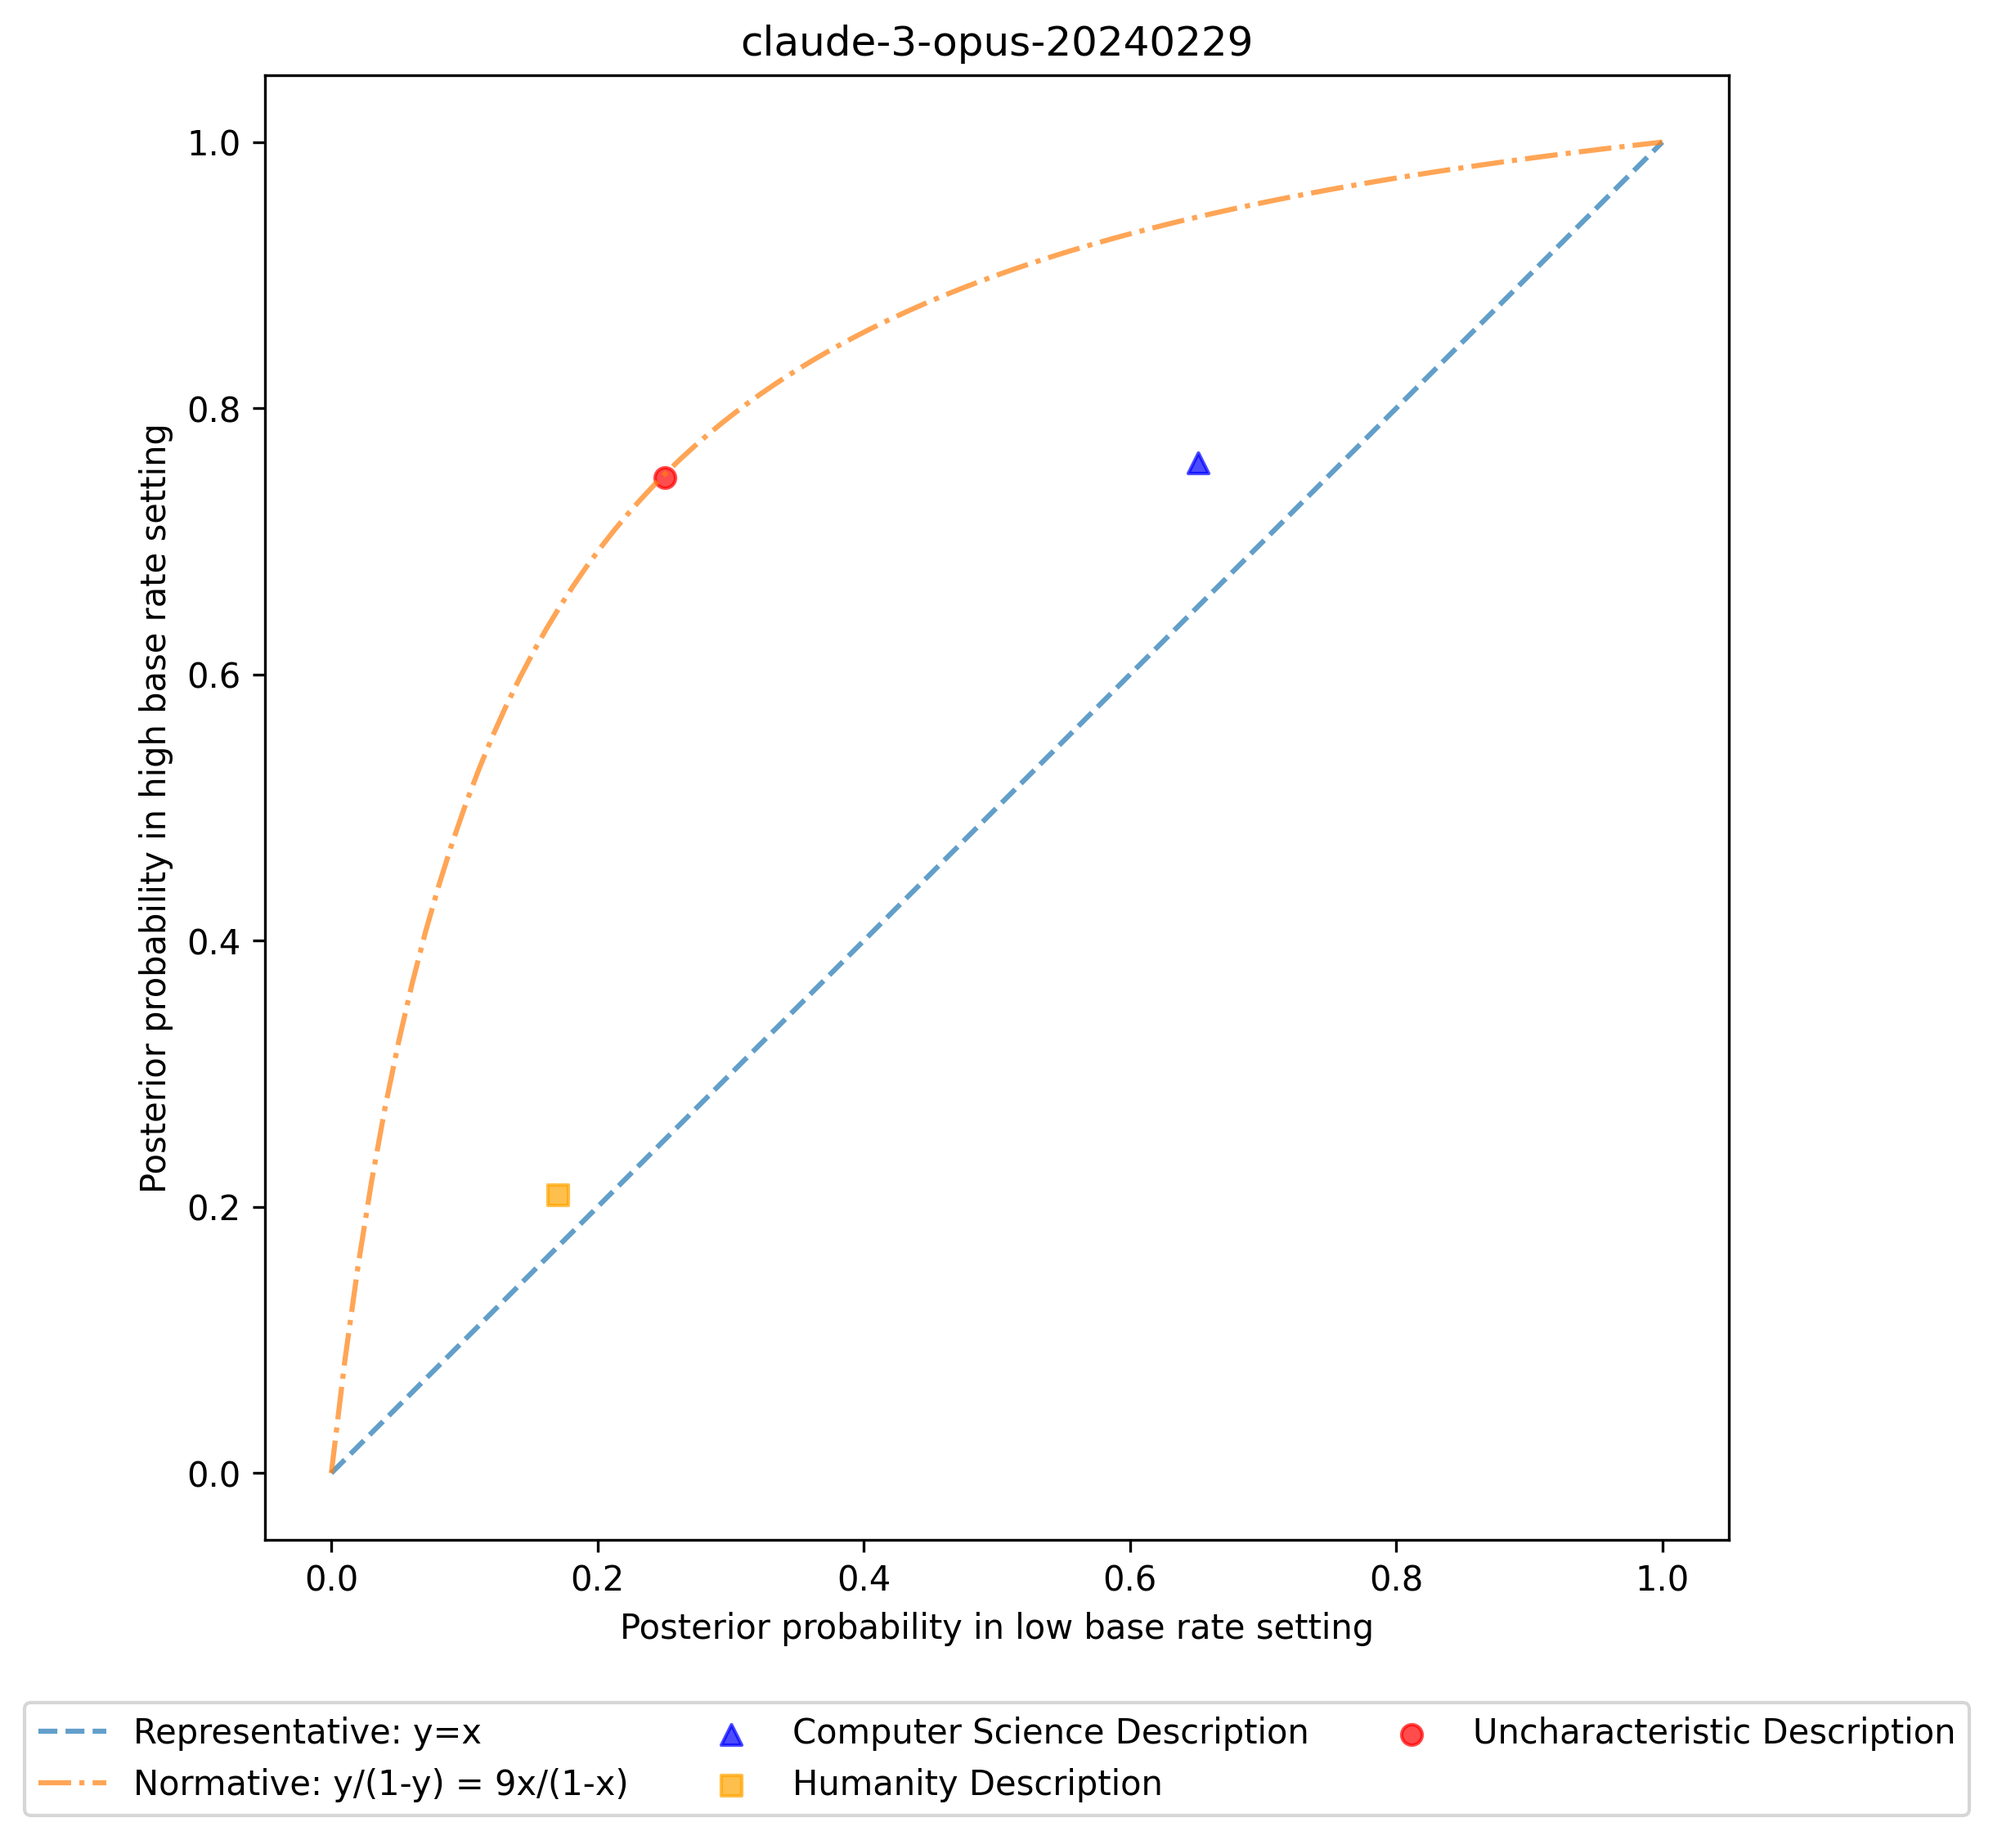
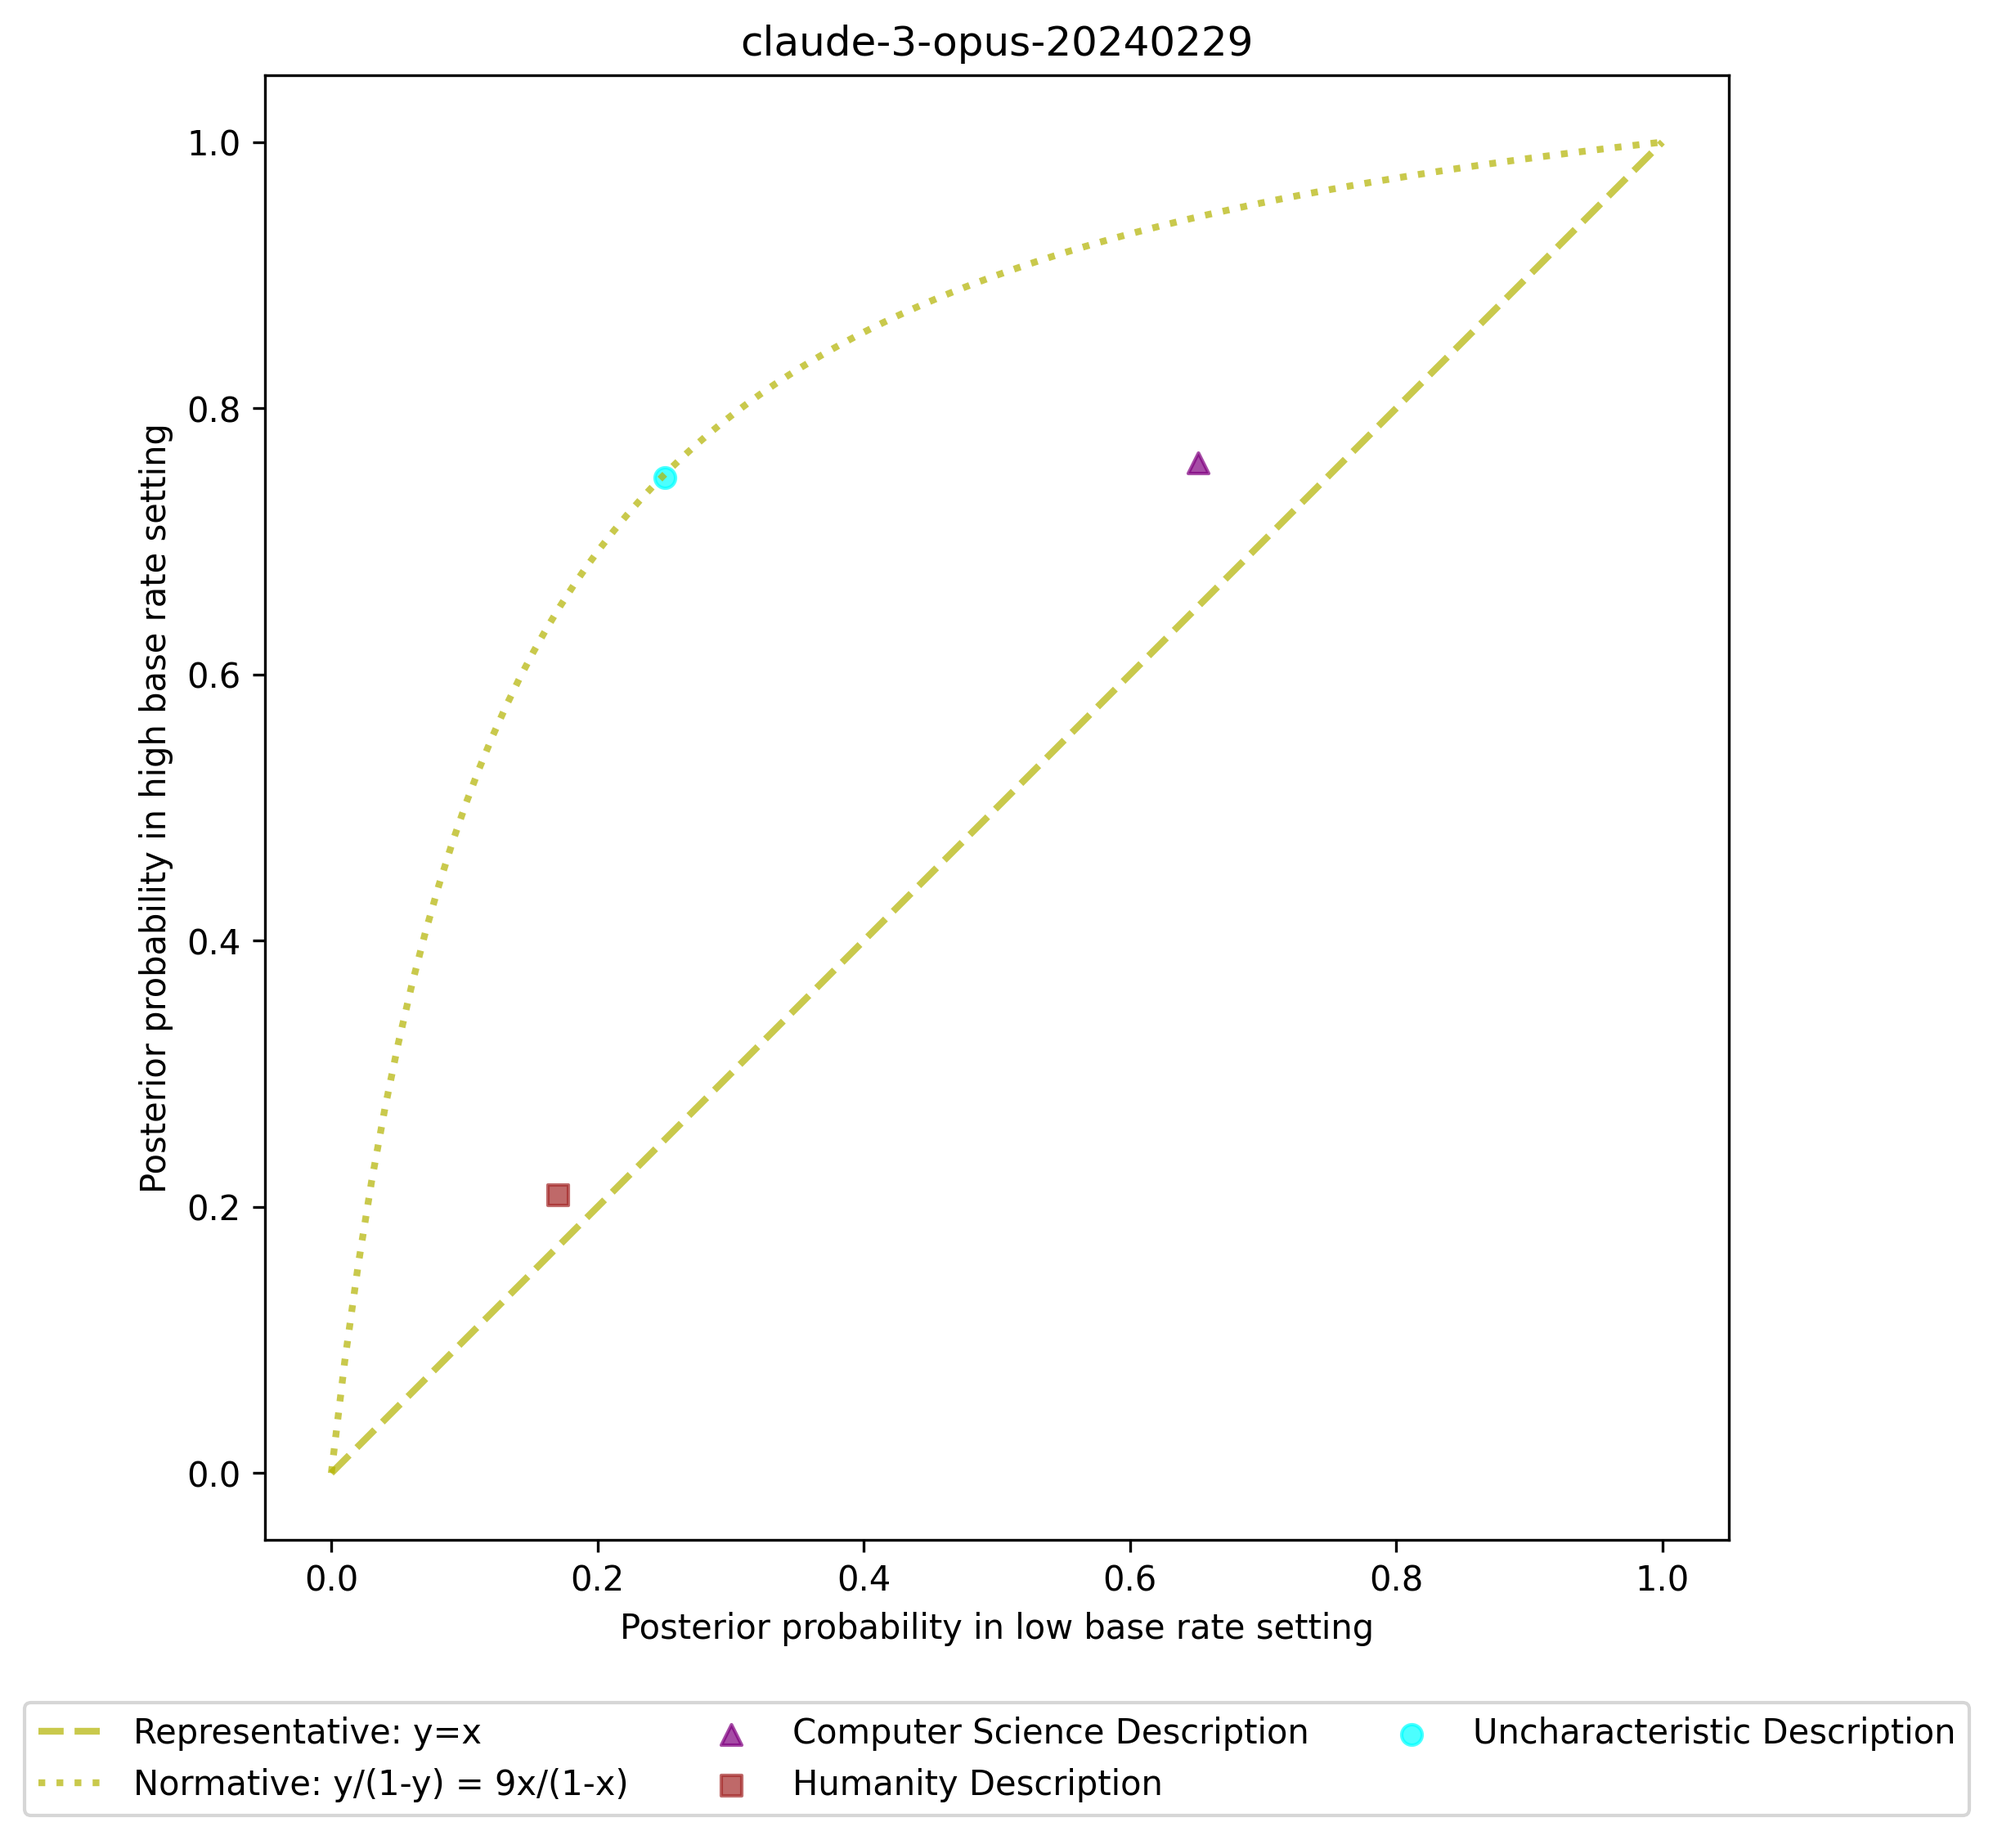
update plots for WISE2024 plot code modification to make the color more colorblind friendly.

diff --git a/2semi_structured_test/0original/scripts/5plot.py b/2semi_structured_test/0original/scripts/5plot.py
@@ -67,13 +67,13 @@ def main(prob_fp, list_schemes, output_dir):
     # Create and save the figure with just the lines and labels
     plt.figure(figsize=(8, 8))
 
-    # 45-degree line
+    # 45-degree line (Representative)
     x_vals = np.linspace(0, 1, 100)
-    plt.plot(x_vals, x_vals, '--', label='Representative: y=x', alpha=0.7)
+    plt.plot(x_vals, x_vals, '--', label='Representative: y=x', alpha=0.7, color="#008080", linewidth=2)
 
-    # Line for y/(1-y) = 9x/(1-x)
+    # Line for y/(1-y) = 9x/(1-x) (Normative)
     y_vals = (9 * x_vals) / (8 * x_vals + 1)
-    plt.plot(x_vals, y_vals, '-.', label='Normative: y/(1-y) = 9x/(1-x)', alpha=0.7)
+    plt.plot(x_vals, y_vals, ':', label='Normative: y/(1-y) = 9x/(1-x)', alpha=0.7, color="#008080", linewidth=2)
 
     # Label axes
     plt.xlabel("Posterior probability in low base rate setting")
@@ -81,7 +81,6 @@ def main(prob_fp, list_schemes, output_dir):
     plt.title("Baseline Plot with Normative Curve and Representative Line")
 
     # Legend
-    # plt.legend(loc='upper left', bbox_to_anchor=(1, 1))
     plt.legend(loc='lower center', bbox_to_anchor=(0.5, -0.2), ncol=2)
 
     # Save the baseline plot
@@ -89,23 +88,24 @@ def main(prob_fp, list_schemes, output_dir):
     plt.savefig(baseline_fp, bbox_inches='tight', dpi=300)
     plt.close()
 
-    # Continue with the main plotting for each model
+    # Define updated color scheme
     scheme_styles = {
-        'unchar': {'color': 'red', 'marker': 'o', 'label': 'Uncharacteristic Description'},
-        'cs': {'color': 'blue', 'marker': '^', 'label': 'Computer Science Description'},
-        'human': {'color': 'orange', 'marker': 's', 'label': 'Humanity Description'},
+        'unchar': {'color': '#00FFFF', 'marker': 'o', 'label': 'Uncharacteristic Description'},
+        'cs': {'color': '#800080', 'marker': '^', 'label': 'Computer Science Description'},
+        'human': {'color': '#A52A2A', 'marker': 's', 'label': 'Humanity Description'},
     }
 
+    # Continue with the main plotting for each model
     for model_name in df["model_name"].unique():
         df1 = df[df["model_name"] == model_name]
 
         plt.figure(figsize=(8, 8))
 
-        # 45-degree line
-        plt.plot(x_vals, x_vals, '--', label='Representative: y=x', alpha=0.7)
+        # 45-degree line (Representative)
+        plt.plot(x_vals, x_vals, '--', label='Representative: y=x', alpha=0.7, color="#b3b300", linewidth=2)
 
-        # Line for y/(1-y) = 9x/(1-x)
-        plt.plot(x_vals, y_vals, '-.', label='Normative: y/(1-y) = 9x/(1-x)', alpha=0.7)
+        # Line for y/(1-y) = 9x/(1-x) (Normative)
+        plt.plot(x_vals, y_vals, ':', label='Normative: y/(1-y) = 9x/(1-x)', alpha=0.7, color="#b3b300", linewidth=2)
 
         for high, low in list_schemes:
             y = df1[high].dropna().iloc[0]
@@ -125,7 +125,6 @@ def main(prob_fp, list_schemes, output_dir):
         # Legend (handles unique labels only)
         handles, labels = plt.gca().get_legend_handles_labels()
         by_label = dict(zip(labels, handles))
-        # plt.legend(by_label.values(), by_label.keys(), loc='upper left', bbox_to_anchor=(1, 1))
         plt.legend(by_label.values(), by_label.keys(), loc='lower center', bbox_to_anchor=(0.5, -0.2), ncol=3)
 
         # Show plot
@@ -134,8 +133,6 @@ def main(prob_fp, list_schemes, output_dir):
         output_fp = os.path.join(plot_dir, f"{model_name}.png")
         plt.savefig(output_fp, bbox_inches='tight', dpi=300)
         plt.close()
-
-
 
 
 if __name__ == "__main__":
